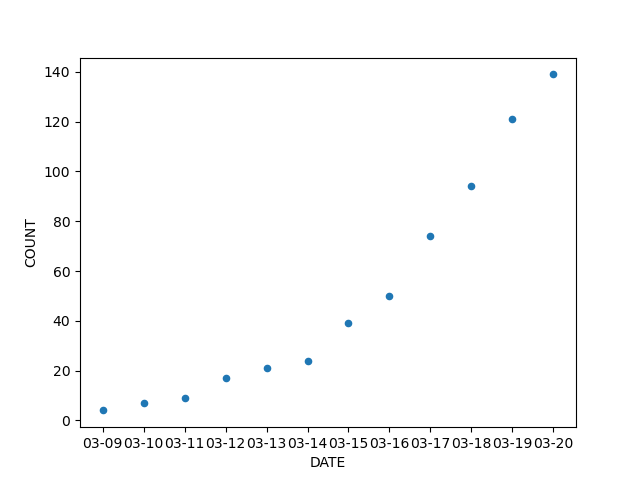
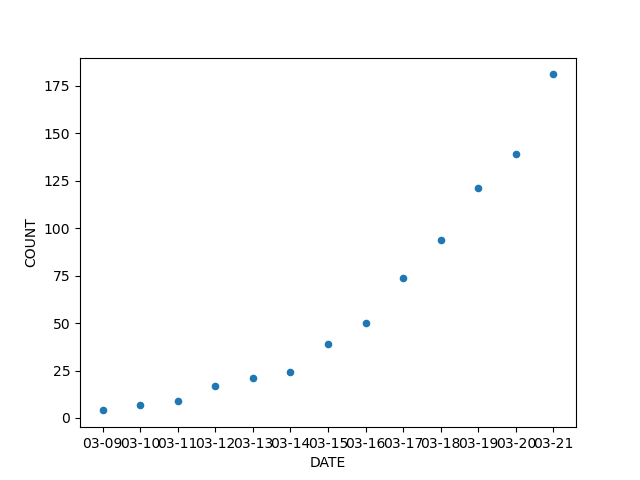
add montreal

diff --git a/Misc/getcount.py b/Misc/getcount.py
@@ -1,27 +1,34 @@
 # get webpage content as bytes (UTF-8)
 # convert to string 
 import urllib.request
-fp = urllib.request.urlopen("https://www.quebec.ca/en/health/health-issues/a-z/2019-coronavirus/situation-coronavirus-in-quebec/")
+fp = urllib.request.urlopen("https://www.quebec.ca/sante/problemes-de-sante/a-z/coronavirus-2019/situation-coronavirus-quebec/")
 pagebytes = fp.read()
 page = pagebytes.decode("utf8")
 fp.close()
 
 # get count
-index = page.find("<strong>Québec</strong>")
+index = page.find("<strong>Au Québec</strong>")
 segment = page[index+23:]
 num_str = segment[:30]
 num_str = ''.join(x for x in num_str if x.isdigit())
 
 # get death
-index = segment.find("including")
+index = segment.find("dont")
 segment = segment[index:]
 death_str = segment[:30]
 death_str = ''.join(x for x in death_str if x.isdigit())
 
 # get recovered 
-index = segment.find("death")
-recovered_str = segment[index:index+30]
+index = segment.find("personnes décédées")
+segment = segment[index:]
+recovered_str = segment[:30]
 recovered_str = ''.join(x for x in recovered_str if x.isdigit())
+
+# get Montreal
+index = segment.find("06 - Montréal")
+segment = segment[index+30:]
+mtl_str = segment[:30]
+mtl_str = ''.join(x for x in mtl_str if x.isdigit())
 
 # function to append record
 def append(filename, record) :
@@ -36,17 +43,20 @@ def append(filename, record) :
         cur_record = cur_lines[-1]
     else :
         csv_str = csv_str[1:]
-        cur_record = ','
-    cur_record = cur_record[cur_record.find(",")+1:]
+        cur_record = ''
 
     # only append if a new count is obtained
-    if cur_record != record :
+    if cur_record != datetime.today().strftime('%m-%d')+","+record :
         with open(filename,'a') as fd:
             fd.write(csv_str)
         return True
 
 # append new record to each file
-if not (append('covid-19.csv',num_str) or append('death.csv',death_str) or append('recovered.csv',recovered_str)) :
+appended = append('covid-19.csv',num_str)
+appended = append('death.csv',death_str) or appended
+appended = append('recovered.csv',recovered_str) or appended
+appended = append('montreal.csv',mtl_str) or appended
+if not appended :
     exit()
 
 # make a new graph if new count appended
@@ -66,3 +76,7 @@ for x in range(len(death.index)) :
 
 df.plot.scatter(x='DATE',y='COUNT')
 plt.savefig('covid-19-active.png')
+
+mtl = pd.read_csv("montreal.csv", names=["DATE","COUNT"])
+mtl.plot.scatter(x='DATE',y='COUNT')
+plt.savefig('covid-19-montreal.png')

diff --git a/Misc/README.md b/Misc/README.md
@@ -1,0 +1,5 @@
+# COVID-19 Quebec
+Collection of cases from the [Quebec government site](https://www.quebec.ca/sante/problemes-de-sante/a-z/coronavirus-2019/situation-coronavirus-quebec/), French version. (Note: English version is not updated as frequently.)
+
+## Stay at home!!
+## Restez chez vous!!
